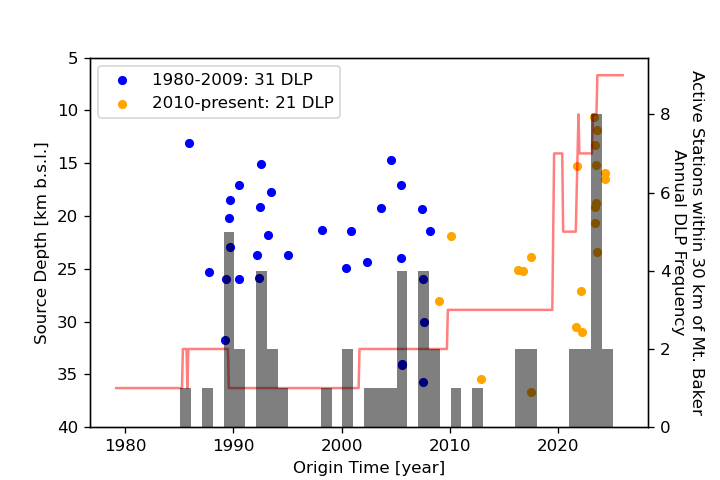
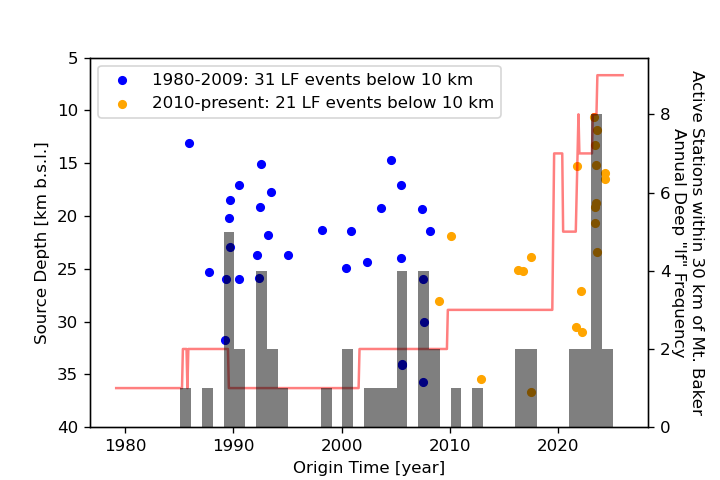
Revise labeling to Low-Frequency

Changed region(s): [[0.3972, 0.125, 0.7028, 0.25], [0.9167, 0.2812, 0.9778, 0.75]]

diff --git a/src/python/figure_generation/MtBaker_DLP_stats_and_station_counts.py b/src/python/figure_generation/MtBaker_DLP_stats_and_station_counts.py
@@ -90,8 +90,8 @@ ax = fig.add_subplot(111)
 eq_dff[n11_ind].plot.scatter(x='timestamp',y='depth',ax=ax,c='blue', zorder=10)
 eq_dff[~n11_ind].plot.scatter(x='timestamp',y='depth',ax=ax,c='orange', zorder=10)
 # Generate legend
-plt.legend(['1980-2009: %d DLP'%(sum(n11_ind)),
-            '2010-present: %d DLP'%(sum(~n11_ind))],
+plt.legend(['1980-2009: %d LF events below 10 km'%(sum(n11_ind)),
+            '2010-present: %d LF events below 10 km'%(sum(~n11_ind))],
             loc='upper left')
 # Format Axes
 ax.set_ylim([40, 5])
@@ -102,7 +102,7 @@ ax2 = ax.twinx()
 # Plot monthly station counts 
 ax2.plot(time_index[1:], sta_count,'r-', zorder=1, alpha=0.5)
 # Add second y-axis label
-ax2.set_ylabel(f'Active Stations within {int(sta_rad_m*1e-3)} km of Mt. Baker\nAnnual DLP Frequency',
+ax2.set_ylabel(f'Active Stations within {int(sta_rad_m*1e-3)} km of Mt. Baker\nAnnual Deep "lf" Frequency',
                rotation=270, labelpad=20)
 ax2.hist(eq_dff.timestamp,bins=pd.date_range(start=time_index[0], end=time_index[-1], freq='12M'),
          alpha=0.5, color='black')
